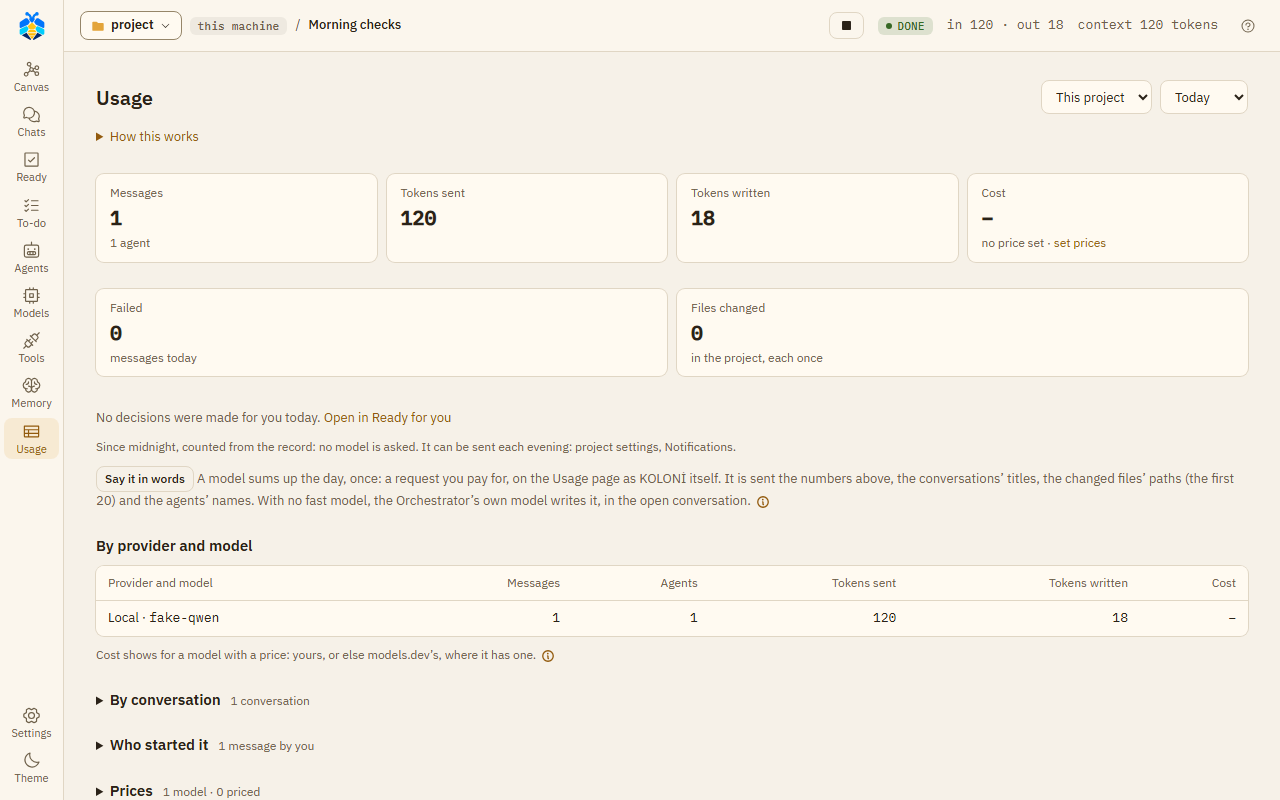
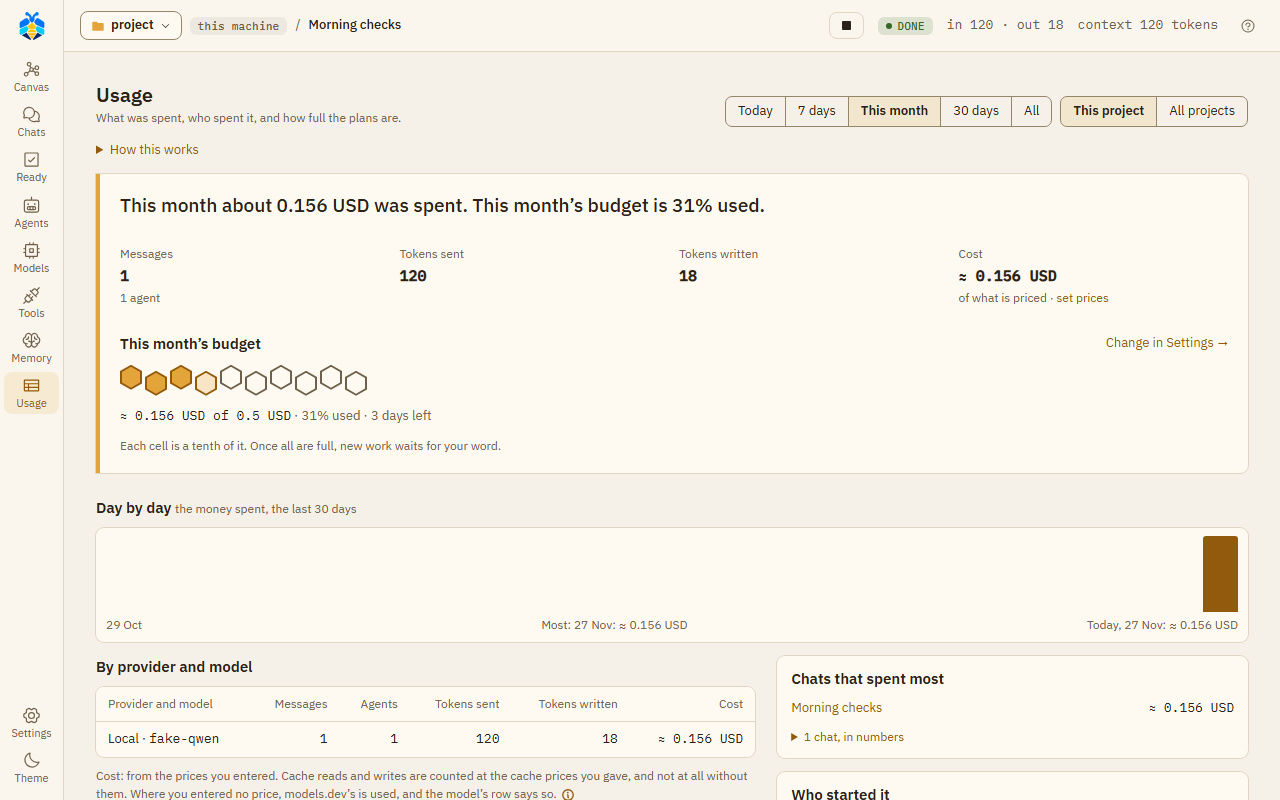
docs(usage): the guide, the specs and the picture for the new Usage page
Usage and budgets says the page as it reads now - the sentence, the budget's
cells, plan bars with their tier line, the strip of 30 days, plan and AI credits
by model, the chats that spent most, who started it, the decisions line - and
Decisions and Limits say where those moved. The e2e specs choose the period and
the projects by their buttons and find the chats under their new name; the
guide's Usage picture is taken anew on This month, with a price and a budget
set for it and taken away after. A decisions line and the strip's note in their
own look; the period's buttons keep to one line on a phone.

diff --git a/frontend/e2e/60a-usage.spec.ts b/frontend/e2e/60a-usage.spec.ts
@@ -69,7 +69,7 @@ for (const theme of ['light', 'dark'] as const)
     await page.reload()
 
     await rail(page, 'Usage').click()
-    await page.getByLabel('Period').selectOption({ label: 'Today' })
+    await page.getByRole('group', { name: 'Period' }).getByRole('button', { name: 'Today' }).click()
     // Boxes on top, each a number: the usage's four, then what the day alone knows (Today, this project).
     const boxes = page.locator('.usage-stats > div')
     await expect(boxes.locator('dt')).toHaveText([
@@ -84,19 +84,19 @@ for (const theme of ['light', 'dark'] as const)
     // Under them, side by side at this width: what is left of the plan, with its bar, and the month's budget, with its own.
     const limits = page.getByRole('region', { name: 'Plan limits' })
     const budget = page.getByRole('region', { name: 'This month’s budget' })
-    await expect(limits.getByRole('meter', { name: `${NAME}: 5 hours used` })).toHaveAttribute('value', '42')
+    await expect(limits.getByRole('meter', { name: `${NAME}: 5 hours used` })).toHaveAttribute('aria-valuenow', '42')
     await expect(limits.getByRole('row', { name: new RegExp(`^${NAME}`) })).toContainText('42% of 5 hours used, resets')
     await expect(budget.getByRole('meter', { name: 'Monthly budget used' })).toBeVisible()
-    const [left, right] = [await limits.boundingBox(), await budget.boundingBox()]
+    const [left, right] = [await budget.boundingBox(), await limits.boundingBox()]
     expect(left!.y).toBe(right!.y)
     expect(left!.x + left!.width).toBeLessThan(right!.x)
-    // The table by model is open; the others are folded, each heading with its count.
+    // The table by model is open; the others' numbers are folded, the chats and the prices counted.
     await expect(page.getByRole('table', { name: 'Usage by provider and model' })).toBeVisible()
-    for (const name of ['By conversation', 'Who started it', 'Prices']) {
+    for (const name of ['Chats that spent most', 'Who started it', 'Prices']) {
       const fold = page.getByRole('region', { name }).locator('details.usage-fold')
       await expect(fold).not.toHaveAttribute('open')
-      await expect(fold.locator('summary')).toContainText(/\d/)
-      // The heading inside what opens it is still a heading, found by a screen reader's heading keys.
+      if (name !== 'Who started it') await expect(fold.locator('summary')).toContainText(/\d/)
+      // Its heading is a heading, found by a screen reader's heading keys.
       await expect(page.getByRole('heading', { name, level: 3 })).toBeVisible()
     }
     await expect(page.getByRole('table', { name: 'Usage by conversation' })).toBeHidden()
@@ -117,5 +117,5 @@ for (const theme of ['light', 'dark'] as const)
 
     // In a narrow window the two are one under the other.
     await page.setViewportSize({ width: 700, height: 900 })
-    expect((await budget.boundingBox())!.y).toBeGreaterThan((await limits.boundingBox())!.y)
+    expect((await limits.boundingBox())!.y).toBeGreaterThan((await budget.boundingBox())!.y)
   })

diff --git a/frontend/e2e/56-today.spec.ts b/frontend/e2e/56-today.spec.ts
@@ -23,14 +23,17 @@ test('the day of the project on Usage › Today: the files changed and what fail
   await expect.poll(last, { timeout: 20_000 }).toBe('completed')
 
   await rail(page, 'Usage').click()
-  await expect(page.getByLabel('Period')).toHaveValue('today')
+  await expect(page.getByRole('group', { name: 'Period' }).getByRole('button', { name: 'Today' })).toHaveAttribute(
+    'aria-pressed',
+    'true',
+  )
   const today = page.getByRole('region', { name: 'Today' })
   const box = (label: string) => today.locator('.usage-stats > div', { has: page.locator('dt', { hasText: label }) })
   await expect(box('Files changed').locator('.usage-stat')).toHaveText(/^[1-9]\d*$/)
   await expect(box('Failed').locator('.usage-stat')).toHaveText(/^\d+$/)
-  // The day's decisions in one line - Ready for you says each.
-  await expect(today.locator('.decided-today')).toContainText(/made for you today/)
-  await expect(today.getByRole('button', { name: 'Open in Ready for you' })).toBeVisible()
+  // The period's decisions in one line - Ready for you says each.
+  await expect(page.locator('.decided-today')).toContainText(/made for you today/)
+  await expect(page.getByRole('button', { name: 'Open in Ready for you' })).toBeVisible()
   // The usage's own boxes are there too: messages, tokens and cost.
   await expect(page.locator('.usage-stats dt', { hasText: 'Messages' })).toBeVisible()
   expect((await today.evaluate(contrasts)).filter(piece => piece.ratio < 4.5)).toEqual([])
@@ -43,6 +46,6 @@ test('the day of the project on Usage › Today: the files changed and what fail
   await shot(page, '56-today')
 
   // Another period has no day of its own.
-  await page.getByLabel('Period').selectOption({ label: '7 days' })
+  await page.getByRole('group', { name: 'Period' }).getByRole('button', { name: '7 days' }).click()
   await expect(today).toHaveCount(0)
 })

diff --git a/frontend/e2e/34-cache.spec.ts b/frontend/e2e/34-cache.spec.ts
@@ -44,13 +44,13 @@ test('what the model server read again from its cache is in the agent window and
   await own.getByRole('button', { name: 'Close agent window' }).click()
 
   await rail(page, 'Usage').click()
-  await page.getByLabel('Period').selectOption({ label: 'Today' })
+  await page.getByRole('group', { name: 'Period' }).getByRole('button', { name: 'Today' }).click()
   // Earlier specs' turns are in the same project: this turn is told by its conversation's row.
-  await openFold(page, 'By conversation')
+  await openFold(page, 'Chats that spent most')
   const row = page
     .getByRole('table', { name: 'Usage by conversation' })
     .getByRole('row', { name: /hello from the cache spec/ })
-  await expect(row.getByRole('cell')).toHaveText(['1', '1', '120', '18']) // what was sent is as it was
+  await expect(row.getByRole('cell')).toHaveText(['1', '1', '120', '18', '–']) // what was sent is as it was
   await expect(row.getByText('64 read again from the cache', { exact: true })).toBeVisible()
   const models = page.getByRole('table', { name: 'Usage by provider and model' })
   const local = models.getByRole('row', { name: /Local · fake-qwen/ })
@@ -81,8 +81,8 @@ test('what the model server read again from its cache is in the agent window and
   await page.reload()
   await expect(page.locator('html')).toHaveClass(/\bdark\b/)
   await rail(page, 'Usage').click()
-  await page.getByLabel('Period').selectOption({ label: 'Today' })
-  await openFold(page, 'By conversation')
+  await page.getByRole('group', { name: 'Period' }).getByRole('button', { name: 'Today' }).click()
+  await openFold(page, 'Chats that spent most')
   await expect(
     page
       .getByRole('table', { name: 'Usage by conversation' })

diff --git a/frontend/e2e/guide-shots.spec.ts b/frontend/e2e/guide-shots.spec.ts
@@ -406,6 +406,14 @@ test('Memory search and Usage', async ({ page, request }) => {
   expect(
     (await request.patch(`/api/conversations/${id}`, { headers: OWN, data: { title: 'Morning checks' } })).ok(),
   ).toBe(true)
+  // Usage's picture: a price for the model and a monthly budget, so that the summary says what was spent and the
+  // budget's cells fill (taken away after it).
+  const project = await e2eProject(page)
+  const price = { model_id: 'fake-qwen', input: 1000, output: 2000, currency: 'USD' }
+  expect((await request.put('/api/prices', { headers: OWN, data: price })).ok()).toBe(true)
+  const budget = (monthly_budget: number | null) =>
+    request.patch(`/api/projects/${project}`, { headers: OWN, data: { monthly_budget } })
+  expect((await budget(0.5)).ok()).toBe(true)
   // (Loaded again: the turn's "Done" toast is not in the pictures.)
   await page.reload()
   await rail(page, 'Memory').click()
@@ -416,8 +424,12 @@ test('Memory search and Usage', async ({ page, request }) => {
   await picture(page, 'memory-search')
 
   await rail(page, 'Usage').click()
+  await page.getByRole('group', { name: 'Period' }).getByRole('button', { name: 'This month' }).click()
   await expect(page.getByRole('table', { name: 'Usage by provider and model' })).toBeVisible()
+  await expect(page.getByRole('meter', { name: 'Monthly budget used' })).toBeVisible()
   await picture(page, 'usage')
+  await request.delete('/api/prices?model_id=fake-qwen', { headers: OWN })
+  expect((await budget(null)).ok()).toBe(true)
 })
 
 test('the Chats page: each chat’s cell and line, and Now', async ({ page, request }) => {

diff --git a/frontend/e2e/21-usage.spec.ts b/frontend/e2e/21-usage.spec.ts
@@ -19,15 +19,17 @@ test('a turn’s tokens are on the Usage page, its conversation opens from there
   await expect(chat.getByText('Hello! Ask me to read or change a file.')).toBeVisible()
 
   await rail(page, 'Usage').click()
-  await expect(page.getByLabel('Projects')).toHaveValue('this')
-  await page.getByLabel('Period').selectOption({ label: 'Today' })
+  await expect(
+    page.getByRole('group', { name: 'Projects' }).getByRole('button', { name: 'This project' }),
+  ).toHaveAttribute('aria-pressed', 'true')
+  await page.getByRole('group', { name: 'Period' }).getByRole('button', { name: 'Today' }).click()
   // Earlier specs' turns are in the same project: this turn is told by its conversation's row,
-  // under its folded heading (slice 60a).
-  await openFold(page, 'By conversation')
+  // under its folded heading (slice 60a); a chat's cost is its models', none yet.
+  await openFold(page, 'Chats that spent most')
   await openFold(page, 'Who started it')
   const talks = page.getByRole('table', { name: 'Usage by conversation' })
   const row = talks.getByRole('row', { name: /hello from the usage spec/ })
-  await expect(row.getByRole('cell')).toHaveText(['1', '1', '120', '18'])
+  await expect(row.getByRole('cell')).toHaveText(['1', '1', '120', '18', '–'])
   const models = page.getByRole('table', { name: 'Usage by provider and model' })
   const local = models.getByRole('row', { name: /Local · fake-qwen/ })
   await expect(local).toBeVisible()

diff --git a/frontend/src/theme/usage.css b/frontend/src/theme/usage.css
@@ -29,7 +29,14 @@
   color: var(--text);
   font: inherit;
   font-size: var(--text-body);
+  white-space: nowrap;
   cursor: pointer;
+}
+
+@media (max-width: 520px) {
+  .usage-seg button {
+    padding: 5px 8px;
+  }
 }
 
 .usage-seg button:first-child {
@@ -125,6 +132,10 @@
 .usage-days h3 {
   font-size: var(--text-heading);
   font-weight: var(--weight-title);
+}
+
+.usage-days h3 .memory-hint {
+  font-weight: var(--weight-body);
 }
 
 .usage-strip-box {
@@ -263,6 +274,20 @@
 
 .usage-more[open] > summary {
   margin-bottom: 10px;
+}
+
+/* The period's decisions, a line in a box of its own, its way to Ready for you at its end. */
+.usage-side > .decided-today,
+.memory-page > .decided-today {
+  display: flex;
+  flex-wrap: wrap;
+  justify-content: space-between;
+  gap: 6px 10px;
+  margin: 0;
+  padding: 10px 14px;
+  border-radius: var(--radius);
+  background: var(--surface);
+  box-shadow: var(--shadow-sm);
 }
 
 /* The page's last word: nothing is estimated. */

diff --git a/docs/money/usage.md b/docs/money/usage.md
@@ -2,30 +2,51 @@
 
 ## The Usage page
 
-Open **Usage** on the left rail. Choose **This project** or **All projects**, and a period: **Today**,
-**7 days**, **30 days** or **All**.
+Open **Usage** on the left rail. Choose a period - **Today**, **7 days**, **This month**, **30 days** or
+**All** - and **This project** or **All projects**. **This month** is the calendar month, as the budget counts it.
 
-![The Usage page for this project today: messages, tokens sent and written, cost, failed and files changed, and the table by provider and model](../images/usage.png)
+![The Usage page for this project this month: the summary sentence and its boxes, this month's budget as ten cells, the last 30 days in one strip, the table by provider and model and the chats that spent most](../images/usage.png)
 
 *The Usage page, counted from the record: no model is asked.*
 
-With **This project** and **Today**, the day's numbers come first, and under them one line on the
-day's decisions: "12 decisions were made for you today, 2 of them you haven't seen.", with **Open in
-Ready for you**, where **Decided for you** lists each. See [Decisions](../use/decisions.md).
+The page reads from the top:
 
-At the top: **Messages**, **Tokens sent**, **Tokens written** and **Cost**. Below:
+- **A sentence** on the period, such as "This month about 23.40 USD was spent. This month's budget is 46%
+  used. Claude Code has used 62% of the week." The budget's part shows with **This project** where the project
+  has a monthly budget; the plan's part is the plan window used most, as the CLIs last said it. With nothing
+  priced it says "no money was counted". Under it: **Messages**, **Tokens sent**, **Tokens written** and
+  **Cost**, with **set prices**.
+- **This month's budget** as ten cells, each a tenth of the budget: honey as it fills, red-orange once it is
+  over, with the amount, the share used and the days left in words beside them. Once all are full, new work waits
+  for your word (see [A project's monthly budget](#a-projects-monthly-budget)).
+- **Plan limits** beside it: a bar for each window of a plan, with **Check now** (see [Plan meters](#plan-meters)).
+- With **This project** and **Today**, the day's own numbers: **Failed** and **Files changed**, and **Say it in
+  words**.
+- **Day by day**: the last 30 days in one strip, whatever the period, a bar a day. It is money where any of it is
+  priced, else the tokens the models reported. A day that ran with nothing known has a dashed stub, never a zero.
+  Under it: the first day, the day that spent most, and today.
+- **By provider and model**: messages, agents, tokens and cost for each model. A CLI on a subscription, or an API
+  key marked as a plan, says **plan** instead of a cost; Copilot's AI credits stand beside it, such as "plan · 41
+  AI credits".
+- **Chats that spent most**: the top three, each opening its chat. **All N chats, in numbers** unfolds the full
+  table, which every column sorts.
+- **Who started it**: a bar each for **You**, **KOLONİ itself** (requests KOLONİ makes outside a message, such as
+  a real run of a CLI from the Models page) and **A trigger, with nobody watching** (a turn before 0.1.10, when
+  triggers were removed). **In numbers** unfolds its table. A night's work while you are ☾ Away counts as yours.
+- With **This project**, one line on the period's decisions: "12 decisions were made for you this month, 2 of them
+  you haven't seen.", with **Open in Ready for you**, where **Decided for you** lists each. See
+  [Decisions](../use/decisions.md).
 
-- **By provider and model**: messages, agents, tokens and cost for each model.
-- **By conversation**.
-- **Who started it**: **You**, **A trigger, with nobody watching** (a turn before 0.1.10, when triggers were removed), or **KOLONİ itself** (requests
-  KOLONİ makes outside a message, such as a real run of a CLI from the Models page).
+A chat's or a day's cost is its models' costs added up, as the budget adds them. Where none of them has a price,
+the chats, the starters and the strip are compared by their tokens instead.
 
 "Nothing is estimated": tokens are only what the models reported, and what was not reported shows as
 "–".
 
 **GitHub Copilot CLI** reports what it spent in its usage checkpoint: its tokens, and its own unit,
 AI credits (or premium requests, its older unit). They show on the agent's context line, under
-**Details** in its window, such as "1,200 in / 300 out · 0.42 AI credits". Run as a session, they are
+**Details** in its window, such as "1,200 in / 300 out · 0.42 AI credits", and added up by model on the
+Usage page, beside its cost. Run as a session, they are
 counted from that checkpoint as in **Native**: measured with `copilot -p` (CLI 1.0.103), not yet seen in a
 live session.
 
@@ -65,7 +86,8 @@ USD). It covers this calendar month, by this machine's clock.
 - If your prices are in more than one currency, the budget is not enforced, and the page says so.
 - A plain chat (no folder) belongs to no budget.
 
-The Usage page shows **This month's budget**, how much is used, and **Change in Settings →**.
+The Usage page shows **This month's budget** as ten cells, how much is used, the days left in the month, and
+**Change in Settings →**.
 
 ## A job's budget
 
@@ -93,4 +115,6 @@ what the month has left too. See [Work while you're away](../automation/overnigh
 For Claude Code, Codex, agy and Copilot, the top bar shows how much of the plan is used, from what each
 CLI last reported. Copilot's chat requests and premium requests show apart
 ([Copilot on your GitHub account](../models/copilot.md#plan-limits)). Near the limit (90%), KOLONİ tells you. On the Usage page, **Plan limits** shows the
-same with **Check now**: "These are the limits of the account the CLI on this machine is signed in to."
+same with **Check now**: "These are the limits of the account the CLI on this machine is signed in to." Where
+a subscription steps down a tier (its **Limits** on the Models page), a line on its bar marks that share; past it
+the bar turns orange and its row says so: "Past 80%: a model picked by tier on it is one tier lower".

diff --git a/docs/changelog.md b/docs/changelog.md
@@ -29,6 +29,8 @@ All notable changes to KOLONİ are listed here, newest first. English only.
 - **Memory**: Knowledge and Memory are one page. The rail has no **Knowledge** any more: **Memory** opens on two parts, **What the project knows** (its rules, facts and notes) and **Sources to look things up in** (what was the Knowledge page: Learn, Try it, Fresh, Spent, Used by); Ctrl+K's **Knowledge** opens the second. Agents have one tool to look things up, **Recall**: where a role uses knowledge it looks in that knowledge's pages too (a `topic` names one), after the memory and earlier messages - KOLONİ's own Reviewer, which reads no memory, still looks in its pages alone. `lookup`, the old tool, keeps working for one release where a role, a prompt or a guide names it ([docs](knowledge.md#how-agents-look-things-up)).
 - **Memory**: the page reads as cells, as Ready does. On top, one search and the three ways memory reaches an agent - **Given at the start**, **Found when asked**, **Sources given to a role** - then its two parts as tabs, each saying what waits in it ("1 waits for your word", "2 may be old"). What waits for your word is one honey box, in sight at once, a note beside the fact it would replace - three of them, the rest behind **Show N more**. **Facts** and **Notes** stand at the left, each fact with a cell for how it stands for agents - green given when the work names its subject, red-orange given to no agent until you look again (one no work can name says only to look again), empty only found by looking it up - and ten cells beside **Facts** fill as the core takes room; a note has **Make it a fact** in sight; **History** is folded under them, and a search hit in it unfolds it. **Your words** - your preferences, the project's rules and the Project notes - stand at the right on paper, with which other projects **Search deeper** also looks in and **Change**. **Look at the sources again** and **Export** are beside **Facts** ([docs](memory.md#the-page)).
 - **Memory**: the sources are cards in a grid, each with a cell for how it stands - green learned (no change known: a repository, a folder or the code scan is not looked at again between learnings, a site only weekly if asked), honey learning, red-orange may be old or its last learning failed, empty not learned - and an opened card goes across the row. **Used by** is a tick for each role that uses it: untick one, or give it to another role with **+ Role…** and **Give** (Map), as on the role's Knowledge tab; an expert's own stays the role's to change. This project's code and KOLONİ's own guide are offered as dashed cards of their own ([docs](knowledge.md#the-knowledge-page)).
+- **Usage**: the page reads as cells, as Ready and Memory do. The period - **Today**, **7 days**, the new **This month** (the calendar month, as the budget counts it), **30 days**, **All** - and **This project** / **All projects** are buttons. On top, one sentence says what the period cost, how much of this month's budget is used and the plan used most, with the boxes under it; the month's budget is ten cells, a tenth each, honey as it fills and red-orange once it is over; **Plan limits** draws a line on a subscription's bar where its picks go a tier lower, the bar orange past it and its row saying so. **Day by day** shows the last 30 days in one strip - money where any of it is priced, else the tokens reported - with the day that spent most and today. By provider and model says **plan** for a subscription instead of a dash, with Copilot's AI credits beside it; **Chats that spent most** shows the top three with what each cost (its models' costs added up) and every chat in numbers folded under; **Who started it** is a bar each; the decisions line follows the period, not only Today. Nothing is estimated: what was not reported stays "–" ([docs](money/usage.md#the-usage-page)).
+- For contributors: `GET /api/usage` also gives `by_day` (this machine's days, each with its models' costs added up), a `cost` on each chat's row the same way, and Copilot's `nano_aiu` and `premium_requests` added up on its model's row; the Usage rows' schemas are in `app/schemas_usage.py`.
 
 ### Fixed
 

diff --git a/CHANGELOG.md b/CHANGELOG.md
@@ -44,6 +44,8 @@ How to write an entry (every release looks the same):
 - **Memory**: Knowledge and Memory are one page. The rail has no **Knowledge** any more: **Memory** opens on two parts, **What the project knows** (its rules, facts and notes) and **Sources to look things up in** (what was the Knowledge page: Learn, Try it, Fresh, Spent, Used by); Ctrl+K's **Knowledge** opens the second. Agents have one tool to look things up, **Recall**: where a role uses knowledge it looks in that knowledge's pages too (a `topic` names one), after the memory and earlier messages - KOLONİ's own Reviewer, which reads no memory, still looks in its pages alone. `lookup`, the old tool, keeps working for one release where a role, a prompt or a guide names it ([docs](docs/knowledge.md#how-agents-look-things-up)).
 - **Memory**: the page reads as cells, as Ready does. On top, one search and the three ways memory reaches an agent - **Given at the start**, **Found when asked**, **Sources given to a role** - then its two parts as tabs, each saying what waits in it ("1 waits for your word", "2 may be old"). What waits for your word is one honey box, in sight at once, a note beside the fact it would replace - three of them, the rest behind **Show N more**. **Facts** and **Notes** stand at the left, each fact with a cell for how it stands for agents - green given when the work names its subject, red-orange given to no agent until you look again (one no work can name says only to look again), empty only found by looking it up - and ten cells beside **Facts** fill as the core takes room; a note has **Make it a fact** in sight; **History** is folded under them, and a search hit in it unfolds it. **Your words** - your preferences, the project's rules and the Project notes - stand at the right on paper, with which other projects **Search deeper** also looks in and **Change**. **Look at the sources again** and **Export** are beside **Facts** ([docs](docs/memory.md#the-page)).
 - **Memory**: the sources are cards in a grid, each with a cell for how it stands - green learned (no change known: a repository, a folder or the code scan is not looked at again between learnings, a site only weekly if asked), honey learning, red-orange may be old or its last learning failed, empty not learned - and an opened card goes across the row. **Used by** is a tick for each role that uses it: untick one, or give it to another role with **+ Role…** and **Give** (Map), as on the role's Knowledge tab; an expert's own stays the role's to change. This project's code and KOLONİ's own guide are offered as dashed cards of their own ([docs](docs/knowledge.md#the-knowledge-page)).
+- **Usage**: the page reads as cells, as Ready and Memory do. The period - **Today**, **7 days**, the new **This month** (the calendar month, as the budget counts it), **30 days**, **All** - and **This project** / **All projects** are buttons. On top, one sentence says what the period cost, how much of this month's budget is used and the plan used most, with the boxes under it; the month's budget is ten cells, a tenth each, honey as it fills and red-orange once it is over; **Plan limits** draws a line on a subscription's bar where its picks go a tier lower, the bar orange past it and its row saying so. **Day by day** shows the last 30 days in one strip - money where any of it is priced, else the tokens reported - with the day that spent most and today. By provider and model says **plan** for a subscription instead of a dash, with Copilot's AI credits beside it; **Chats that spent most** shows the top three with what each cost (its models' costs added up) and every chat in numbers folded under; **Who started it** is a bar each; the decisions line follows the period, not only Today. Nothing is estimated: what was not reported stays "–" ([docs](docs/money/usage.md#the-usage-page)).
+- For contributors: `GET /api/usage` also gives `by_day` (this machine's days, each with its models' costs added up), a `cost` on each chat's row the same way, and Copilot's `nano_aiu` and `premium_requests` added up on its model's row; the Usage rows' schemas are in `app/schemas_usage.py`.
 
 ### Fixed
 

diff --git a/README.md b/README.md
@@ -40,7 +40,7 @@ your code to its own service, as it always did. KOLONİ is an alpha: expect roug
 </tr>
 <tr>
 <td width="50%"><img src="docs/images/ready-morning.png" alt="Ready for you the morning after a night while you were away: the night&#39;s report with a row per job, what waits for your word, and To-do&#39;s cards on the right"><br><sub><b>The morning.</b> ☾ Away works your To-do through while you are away; Ready for you says what was done, what waits for your word, and your To-do beside it.</sub></td>
-<td width="50%"><img src="docs/images/usage.png" alt="The Usage page: messages, tokens sent and written, cost, by provider and model"><br><sub><b>Usage.</b> Tokens, AI credits and plan windows per run, as the CLIs reported them, and the cards you were asked; nothing invented.</sub></td>
+<td width="50%"><img src="docs/images/usage.png" alt="The Usage page: what the month cost in a sentence, its budget as ten cells, the last 30 days in a strip, and the table by provider and model"><br><sub><b>Usage.</b> Tokens, AI credits and plan windows per run, as the CLIs reported them, and the cards you were asked; nothing invented.</sub></td>
 </tr>
 <tr>
 <td width="50%"><img src="docs/images/checked-review.png" alt="The Checked section under an answer: Tests passed: python check.py - 2 passed; Review: Reviewer - MERGE, no findings"><br><sub><b>Checked.</b> Under the answer, what KOLONİ itself ran and found - from its records, never the model's word.</sub></td>

diff --git a/docs/use/decisions.md b/docs/use/decisions.md
@@ -22,8 +22,8 @@ your project.
   away, 3 things were decided for you and 2 wait for you." **Open in Ready for you** opens the page with **Decided for you** in view, at **Not
   seen** when some wait for your OK. The cards that wait for you stay in the chat, and you answer
   them there as before. The same line is in the **Ready for you** panel's **This chat**.
-- **Usage › Today**, one line: "12 decisions were made for you today, 2 of them you haven't seen.",
-  with **Open in Ready for you**.
+- **Usage**, with **This project**, one line on the period you chose: "12 decisions were made for you this
+  month, 2 of them you haven't seen.", with **Open in Ready for you**.
 
 A chat with no folder has no project, and so no list: its decisions stay in its own **Decided for you
 while you were away** box, with **OK** and **Change →** (see

diff --git a/docs/models/limits.md b/docs/models/limits.md
@@ -6,7 +6,8 @@ Each provider's window has a **Limits** tab. What it offers depends on how the p
 
 **Step down a tier at [ ] % of the plan**: once this much of the plan is used, agents picked by tier
 move one tier down. A whole number from 50 to 100, or empty for never. "A role that always runs on
-one tier, or on one model, is never stepped down: your own rule wins."
+one tier, or on one model, is never stepped down: your own rule wins." On the Usage page, **Plan limits** marks
+that share with a line on the plan's bar; past it the bar turns orange.
 
 ## An API key
 
